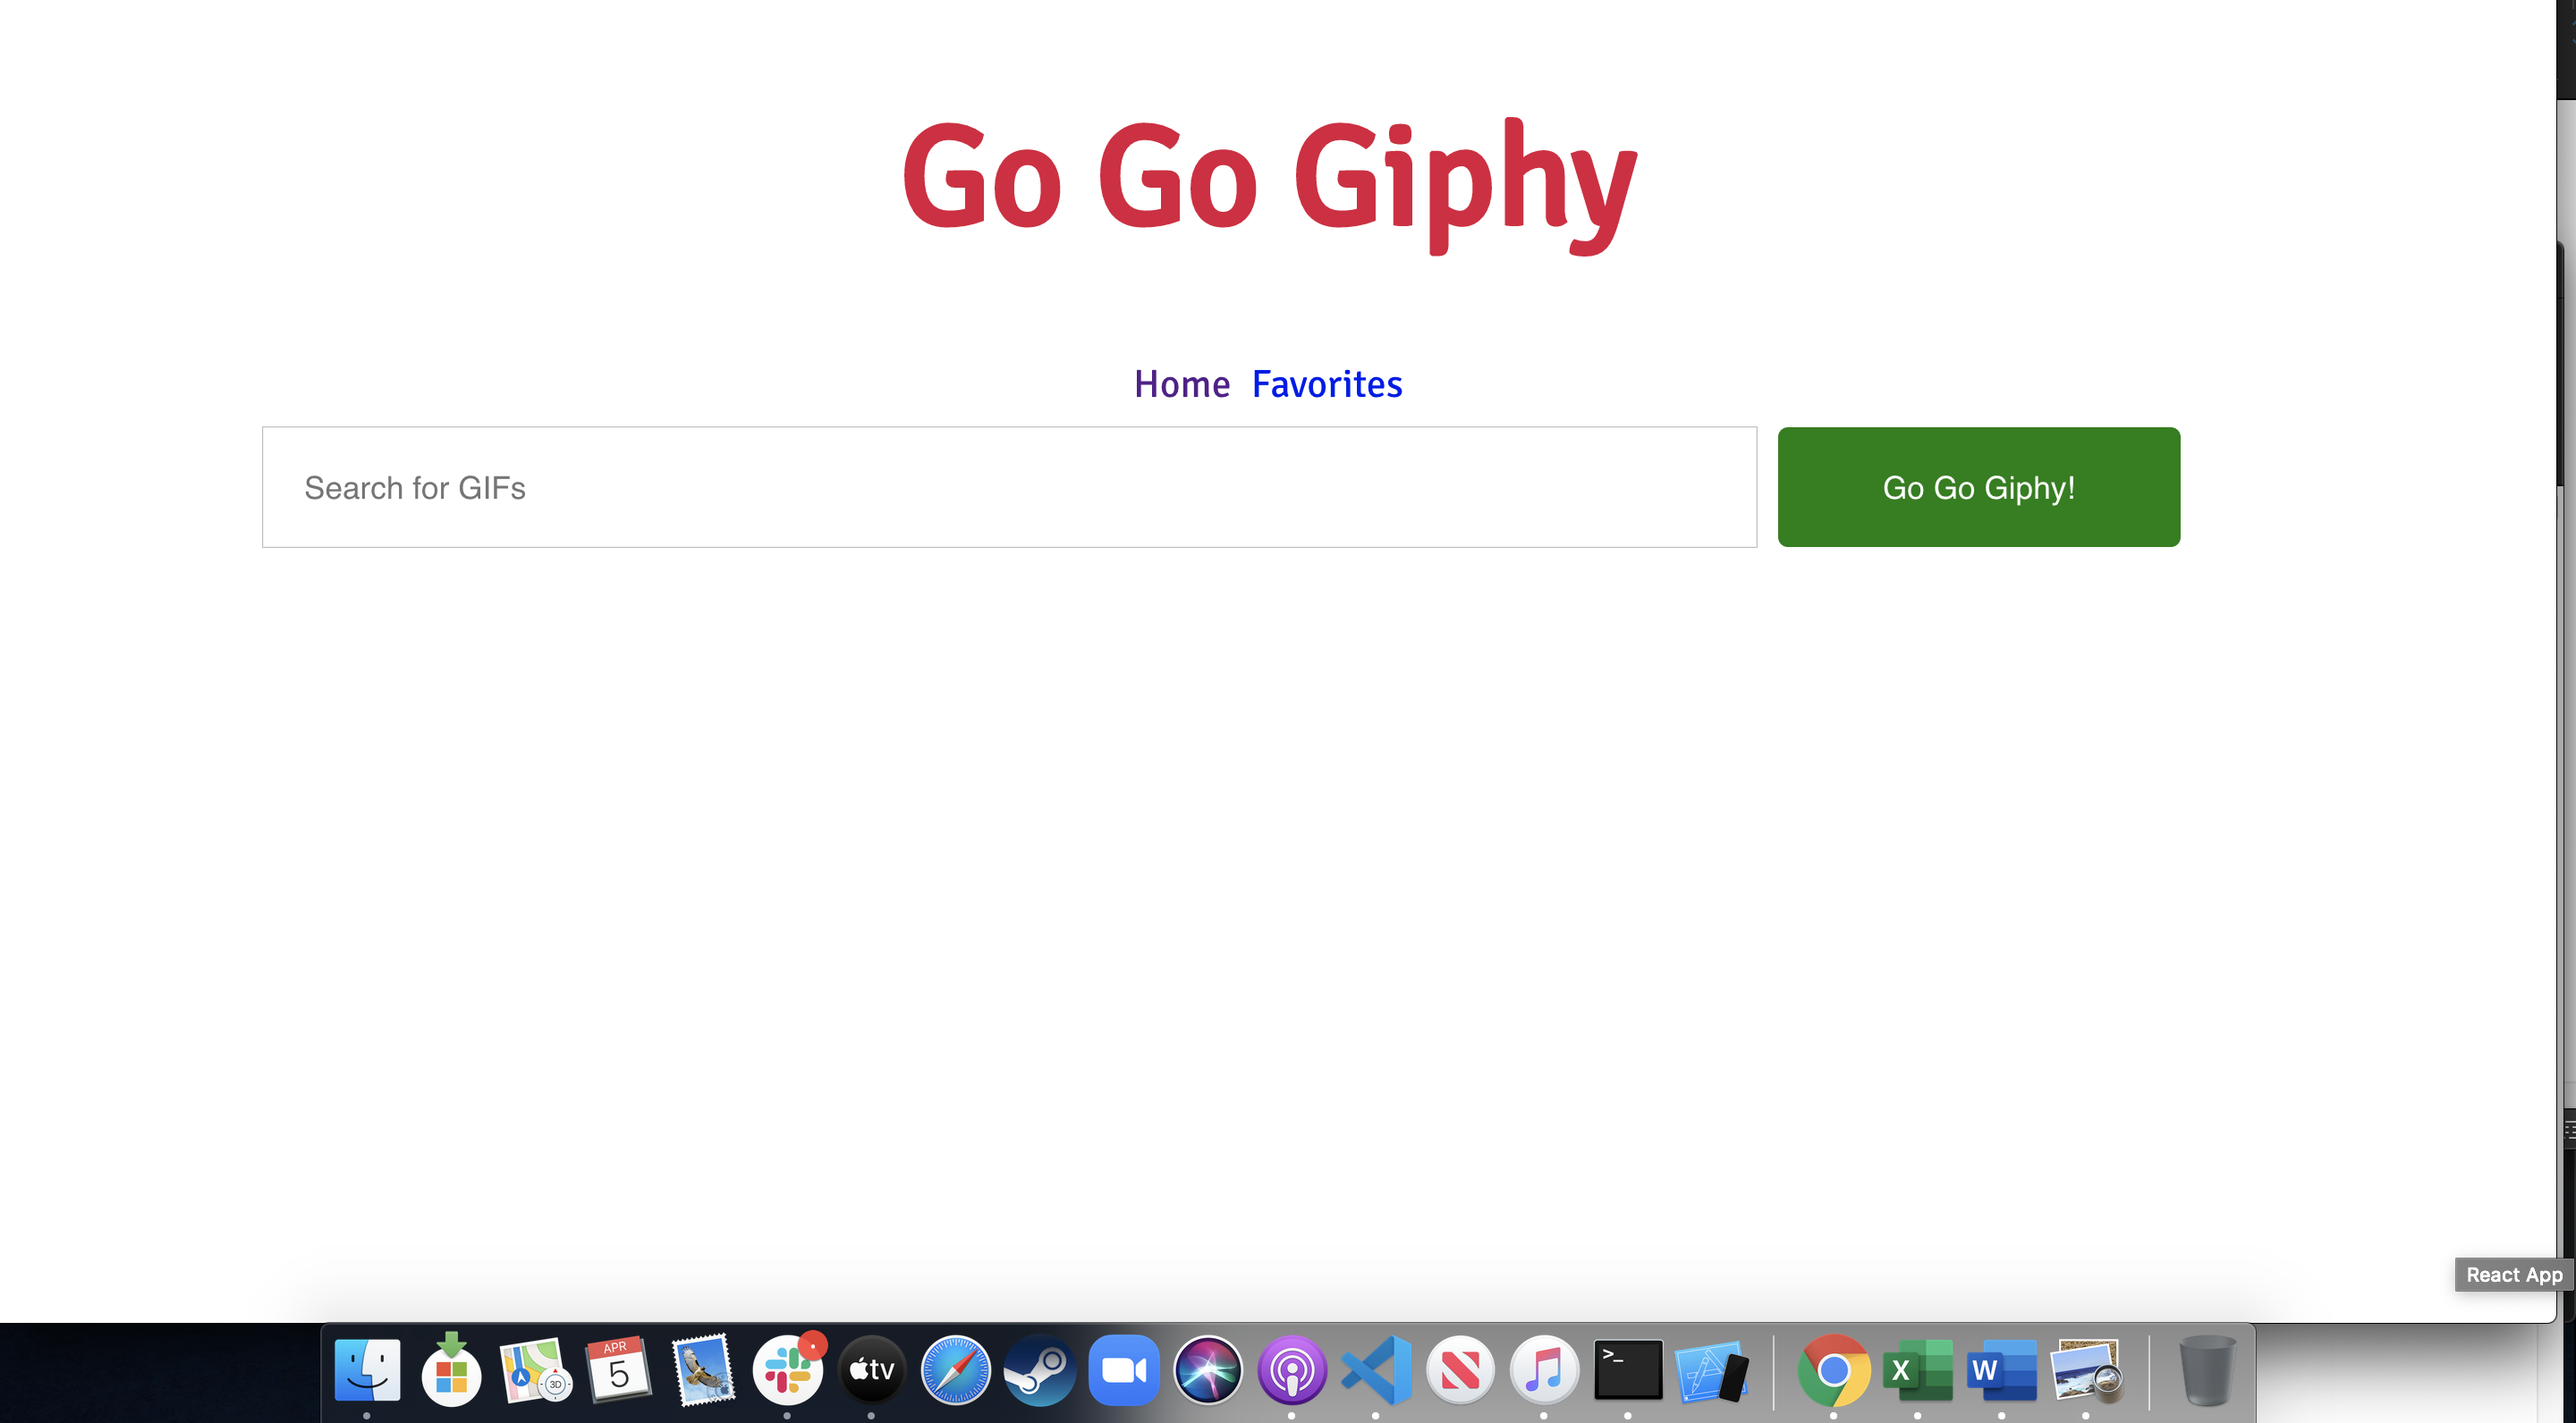
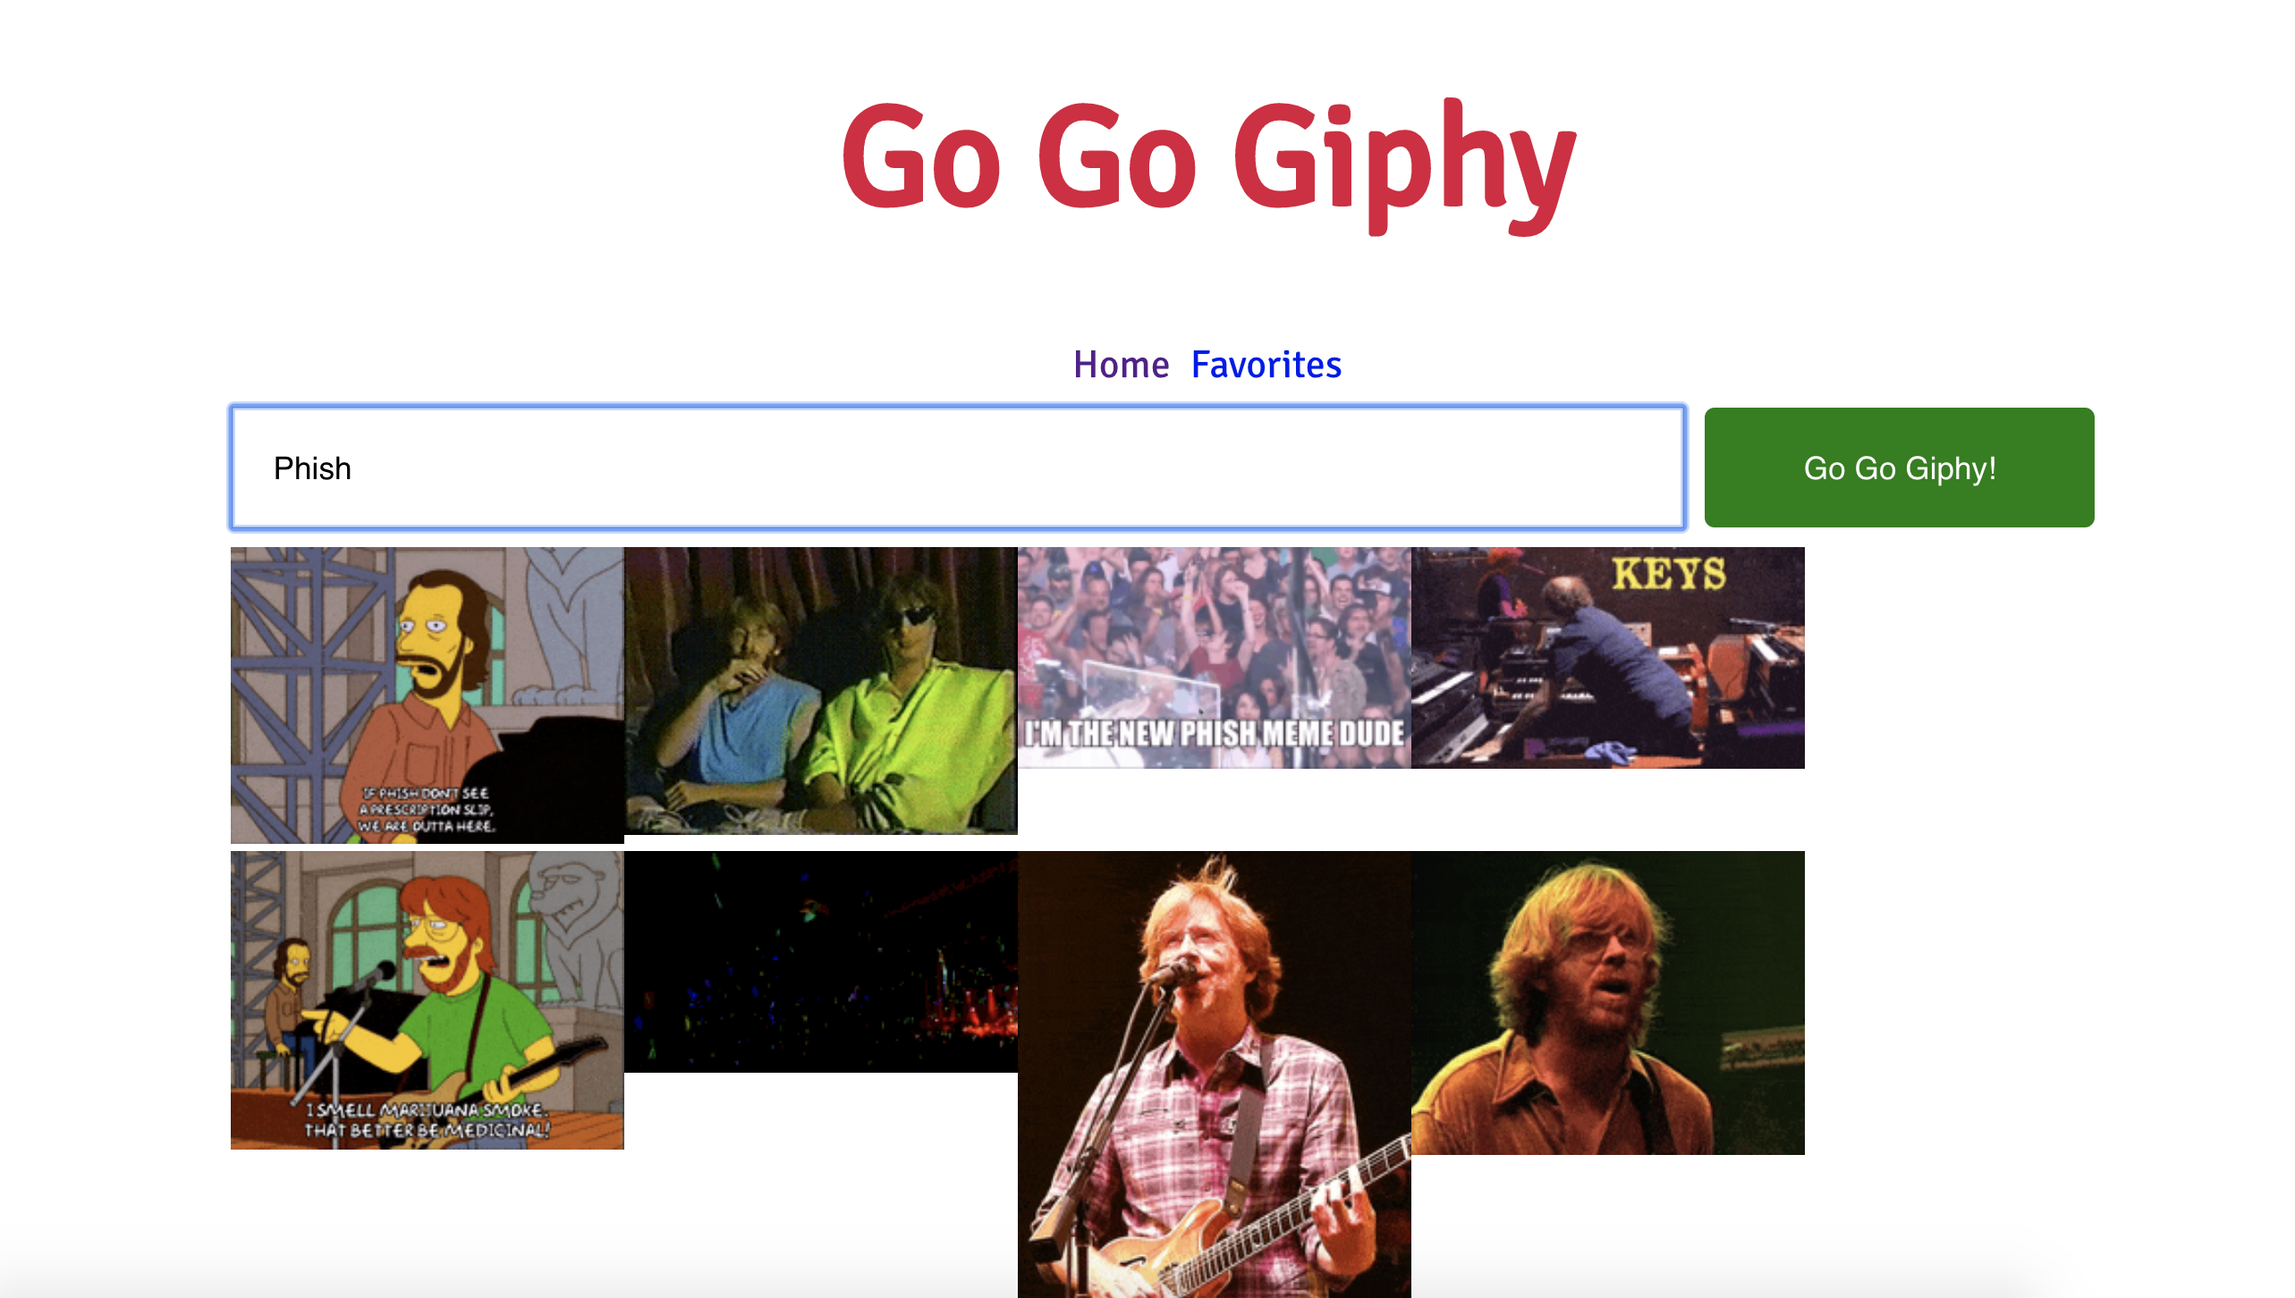
swap in new gogogiphy image and adjust sizes of portfolio images

diff --git a/src/components/Work.scss b/src/components/Work.scss
@@ -1,14 +1,8 @@
 .image-container{
     justify-content: space-evenly;
     padding: 10px;
-    width: 300px;
-    height: 400px;
 }
 
-.project{
-    height: 400px;
-    width: 300px;
-}
 
 .work-container{
     display: flex;
